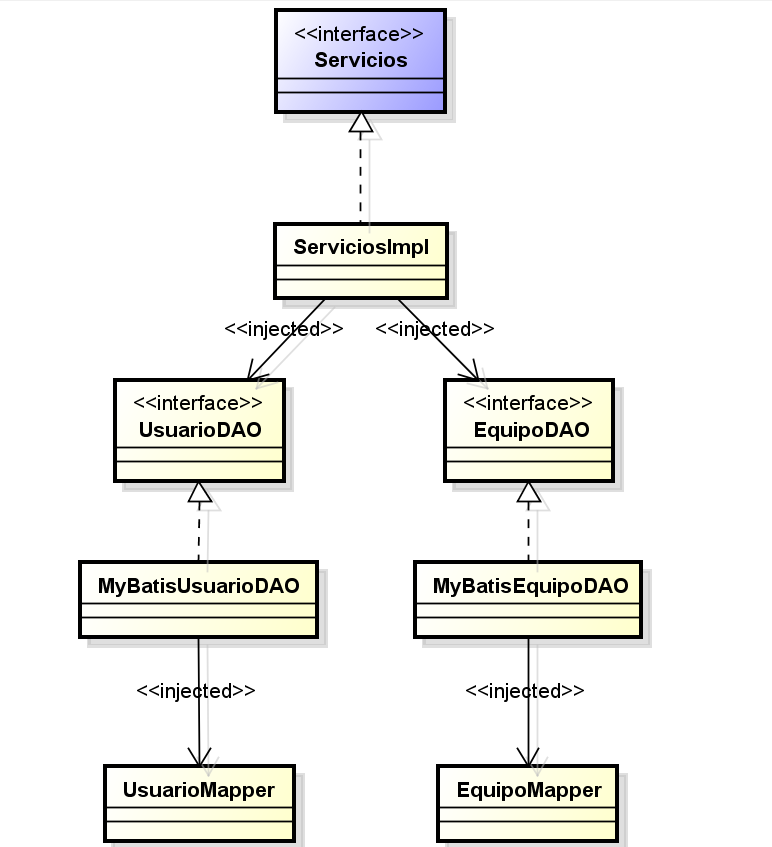
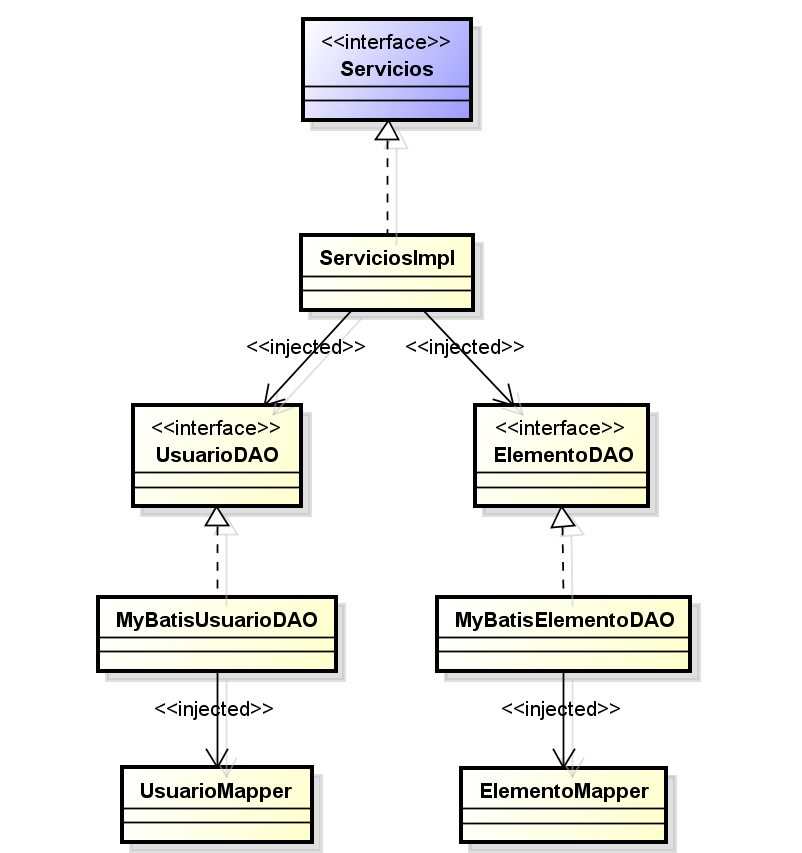
Creacion de clases

Changed region(s): [[0.0933, 0.0, 0.9016, 1.0]]

diff --git a/src/main/java/edu/eci/cvds/sampleprj/dao/mybatis/MyBATISElementoDAO.java b/src/main/java/edu/eci/cvds/sampleprj/dao/mybatis/MyBATISElementoDAO.java
@@ -1,0 +1,5 @@
+package edu.eci.cvds.sampleprj.dao.mybatis;
+
+public class MyBATISElementoDAO {
+
+}

diff --git a/src/main/java/edu/eci/cvds/sampleprj/dao/mybatis/MyBATISUsuarioDAO.java b/src/main/java/edu/eci/cvds/sampleprj/dao/mybatis/MyBATISUsuarioDAO.java
@@ -1,0 +1,5 @@
+package edu.eci.cvds.sampleprj.dao.mybatis;
+
+public class MyBATISUsuarioDAO {
+
+}

diff --git a/src/main/java/edu/eci/cvds/sampleprj/dao/ElementoDAO.java b/src/main/java/edu/eci/cvds/sampleprj/dao/ElementoDAO.java
@@ -1,0 +1,5 @@
+package edu.eci.cvds.sampleprj.dao;
+
+public interface ElementoDAO {
+
+}

diff --git a/src/main/java/edu/eci/cvds/sampleprj/dao/UsuarioDAO.java b/src/main/java/edu/eci/cvds/sampleprj/dao/UsuarioDAO.java
@@ -1,0 +1,5 @@
+package edu.eci.cvds.sampleprj.dao;
+
+public interface UsuarioDAO {
+
+}

diff --git a/src/main/java/edu/eci/cvds/samples/entities/Elemento.java b/src/main/java/edu/eci/cvds/samples/entities/Elemento.java
@@ -1,0 +1,5 @@
+package edu.eci.cvds.samples.entities;
+
+public class Elemento{
+
+}

diff --git a/src/main/java/edu/eci/cvds/samples/entities/Usuario.java b/src/main/java/edu/eci/cvds/samples/entities/Usuario.java
@@ -1,0 +1,5 @@
+package edu.eci.cvds.samples.entities;
+
+public class Usuario {
+
+}
